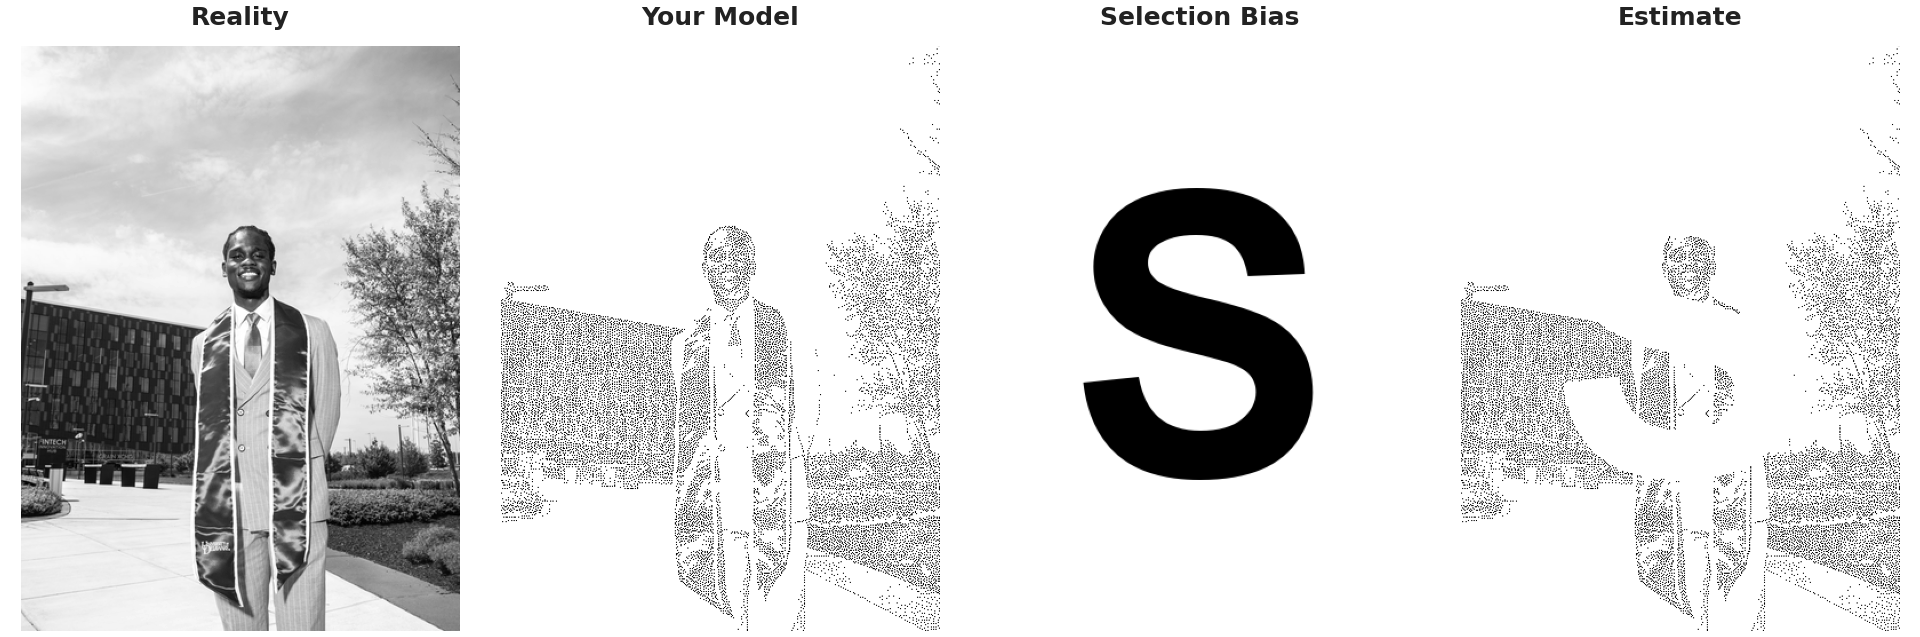
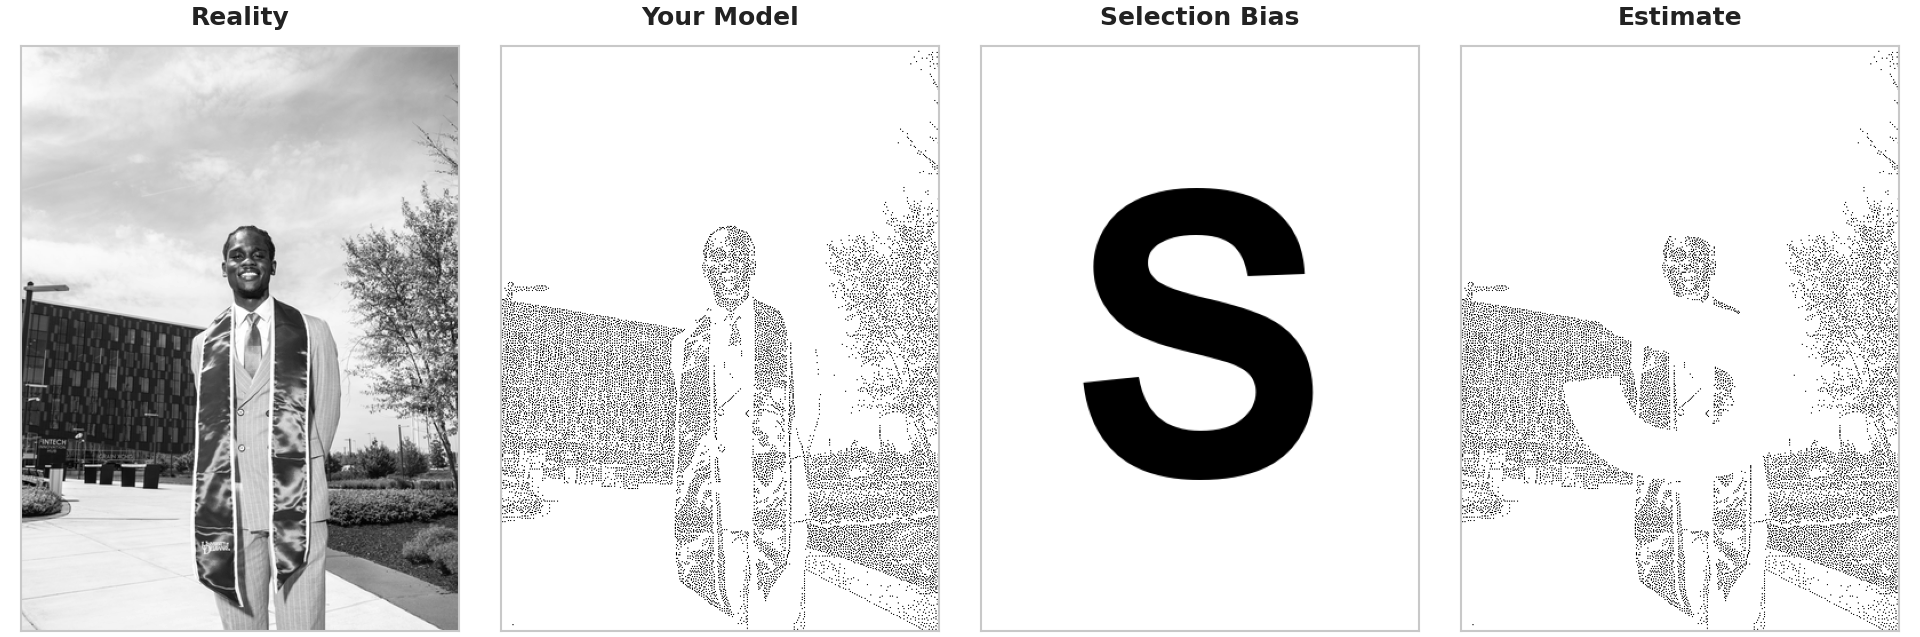
'final'

diff --git a/index.html b/index.html
@@ -160,9 +160,9 @@ ul.task-list li input[type="checkbox"] {
 <li><strong>Step 1</strong>: Prepare black and white image (provided) ✅</li>
 <li><strong>Step 2</strong>: Create stippled image using blue noise stippling (provided) ✅</li>
 <li><strong>Step 3</strong>: Create tonal analysis (optional refinement step, provided) ✅</li>
-<li><strong>Step 4</strong>: Create block letter “S” matching image dimensions (<strong>YOU WRITE THIS</strong>) ⚠</li>
-<li><strong>Step 5</strong>: Create masked image by applying the letter mask to the stippled image (<strong>YOU WRITE THIS</strong>) ⚠</li>
-<li><strong>Final</strong>: Assemble all components into the four-panel meme (<strong>YOU WRITE THIS</strong>) ⚠</li>
+<li><strong>Step 4</strong>: Create block letter “S” matching image dimensions ✅</li>
+<li><strong>Step 5</strong>: Create masked image by applying the letter mask to the stippled image ✅</li>
+<li><strong>Final</strong>: Assemble all components into the four-panel meme ✅</li>
 </ol>
 <p><strong>Note:</strong> Step 3 is optional but recommended. It helps you understand your image’s brightness distribution and refine the stippling parameters in Step 2 for better results.</p>
 </section>
@@ -182,7 +182,7 @@ ul.task-list li input[type="checkbox"] {
 <section id="function-files" class="level3">
 <h3 class="anchored" data-anchor-id="function-files">Function Files</h3>
 <p><strong>Steps you’ll use (provided):</strong> - <strong><code>step1_prepare_image.py</code></strong>: Image loading and preprocessing - <strong><code>step2_create_stipple.py</code></strong>: Blue noise stippling algorithm - <strong><code>step3_create_tonal.py</code></strong>: Tonal analysis (optional)</p>
-<p><strong>Steps you’ll write:</strong> - <strong><code>step4_create_block_letter.py</code></strong>: Block letter generation ⚠ - <strong><code>step5_create_masked.py</code></strong>: Mask application ⚠ - <strong><code>create_meme.py</code></strong>: Final assembly and visualization ⚠</p>
+<p><strong>Steps you’ll write:</strong> - <strong><code>step4_create_block_letter.py</code></strong>: Block letter generation ✅ - <strong><code>step5_create_masked.py</code></strong>: Mask application ✅ - <strong><code>create_meme.py</code></strong>: Final assembly and visualization ✅</p>
 <p><strong>Supporting functions (provided):</strong> - <strong><code>importance_map.py</code></strong>: Computes importance map for stippling - <strong><code>stippling_functions.py</code></strong>: Core stippling algorithm functions</p>
 </section>
 </section>
@@ -191,13 +191,13 @@ ul.task-list li input[type="checkbox"] {
 <p>Load an image, convert to grayscale, and resize to appropriate dimensions while maintaining aspect ratio.</p>
 <div id="cell-step1-prepare" class="cell" data-execution_count="1">
 <div class="cell-output cell-output-stdout">
-<pre><code>Image size: (375, 250) (no resizing needed)
-Final image shape: (375, 250) (should be 2D for grayscale)</code></pre>
+<pre><code>Resized image from (2048, 1537) to (512, 384) for processing
+Final image shape: (512, 384) (should be 2D for grayscale)</code></pre>
 </div>
 <div class="cell-output cell-output-display">
 <div id="step1-prepare" class="quarto-figure quarto-figure-center anchored">
 <figure class="figure">
-<p><img src="index_files/figure-html/step1-prepare-output-2.png" width="301" height="470" class="figure-img"></p>
+<p><img src="index_files/figure-html/step1-prepare-output-2.png" width="336" height="470" class="figure-img"></p>
 <figcaption>Original image prepared for processing</figcaption>
 </figure>
 </div>
@@ -211,15 +211,15 @@ Final image shape: (375, 250) (should be 2D for grayscale)</code></pre>
 <div class="cell-output cell-output-stdout">
 <pre><code>Importance map computed
 Generating blue noise stippling pattern...
-Generated 7500 stipple points
-Stipple pattern shape: (375, 250)
-Number of stippled points (0.0 values): 7500
-Number of background points (1.0 values): 86250</code></pre>
+Generated 15728 stipple points
+Stipple pattern shape: (512, 384)
+Number of stippled points (0.0 values): 15728
+Number of background points (1.0 values): 180880</code></pre>
 </div>
 <div class="cell-output cell-output-display">
 <div id="step2-stipple" class="quarto-figure quarto-figure-center anchored">
 <figure class="figure">
-<p><img src="index_files/figure-html/step2-stipple-output-2.png" width="301" height="470" class="figure-img"></p>
+<p><img src="index_files/figure-html/step2-stipple-output-2.png" width="336" height="470" class="figure-img"></p>
 <figcaption>Blue noise stippling pattern</figcaption>
 </figure>
 </div>
@@ -246,8 +246,8 @@ Number of background points (1.0 values): 86250</code></pre>
 <div id="cell-step3-tonal" class="cell" data-execution_count="3">
 <div class="cell-output cell-output-stdout">
 <pre><code>Created tonal analysis: grid 16×12
-Tonal statistics: mean=0.636, std=0.321
-Tone range: [0.072, 0.945]</code></pre>
+Tonal statistics: mean=0.668, std=0.237
+Tone range: [0.153, 0.953]</code></pre>
 </div>
 <div class="cell-output cell-output-display">
 <div id="step3-tonal" class="quarto-figure quarto-figure-center anchored">
@@ -260,15 +260,15 @@ Tone range: [0.072, 0.945]</code></pre>
 <div class="cell-output cell-output-stdout">
 <pre><code>
 📊 Tonal Statistics for Parameter Tuning:
-  Mean brightness: 0.636
-  Standard deviation: 0.321
-  Brightness range: [0.072, 0.945]
+  Mean brightness: 0.668
+  Standard deviation: 0.237
+  Brightness range: [0.153, 0.953]
 
 💡 Tuning Tips:
   - If mean &lt; 0.4: Image is dark, consider lowering extreme_threshold_low
   - If mean &gt; 0.6: Image is light, consider raising extreme_threshold_high
   - If std &gt; 0.2: High contrast, may need stronger extreme_downweight
-  - Use mid_tone_center around 0.64 to emphasize average tones</code></pre>
+  - Use mid_tone_center around 0.67 to emphasize average tones</code></pre>
 </div>
 </div>
 </section>
@@ -290,6 +290,16 @@ Tone range: [0.072, 0.945]</code></pre>
 </div>
 </div>
 <p><strong>Your code should go in a file called <code>step4_create_block_letter.py</code>.</strong> Once you’ve written it, you’ll use it like this:</p>
+<div id="cell-step4-block-letter" class="cell" data-execution_count="4">
+<div class="cell-output cell-output-display">
+<div id="step4-block-letter" class="quarto-figure quarto-figure-center anchored">
+<figure class="figure">
+<p><img src="index_files/figure-html/step4-block-letter-output-1.png" width="421" height="470" class="figure-img"></p>
+<figcaption>Block letter S representing selection bias</figcaption>
+</figure>
+</div>
+</div>
+</div>
 </section>
 <section id="step-5-create-masked-image-your-task" class="level2">
 <h2 class="anchored" data-anchor-id="step-5-create-masked-image-your-task">Step 5: Create Masked Image ⚠ <strong>YOUR TASK</strong></h2>
@@ -309,6 +319,16 @@ Tone range: [0.072, 0.945]</code></pre>
 </div>
 </div>
 <p><strong>Your code should go in a file called <code>step5_create_masked.py</code>.</strong> Once you’ve written it, you’ll use it like this:</p>
+<div id="cell-step5-masked" class="cell" data-execution_count="5">
+<div class="cell-output cell-output-display">
+<div id="step5-masked" class="quarto-figure quarto-figure-center anchored">
+<figure class="figure">
+<p><img src="index_files/figure-html/step5-masked-output-1.png" width="464" height="470" class="figure-img"></p>
+<figcaption>Masked stippled image showing selection bias effect</figcaption>
+</figure>
+</div>
+</div>
+</div>
 </section>
 <section id="create-the-final-statistics-meme-your-task" class="level2">
 <h2 class="anchored" data-anchor-id="create-the-final-statistics-meme-your-task">Create the Final Statistics Meme ⚠ <strong>YOUR TASK</strong></h2>
@@ -328,6 +348,7 @@ Tone range: [0.072, 0.945]</code></pre>
 </div>
 </div>
 <p><strong>Your code should go in a file called <code>create_meme.py</code>.</strong> Once you’ve written it, you’ll use it like this:</p>
+<p>Meme Explanation: This meme demonstrates selection bias by showing how systematic missing data patterns distort our understanding of reality. The original image (Reality) represents the true population, while the stippled version (Your Model) shows our data collection. When selection bias removes data points in a systematic “S” pattern, the resulting estimate becomes biased and no longer represents the true population, just as missing data in real-world studies can lead to incorrect conclusions.</p>
 </section>
 <section id="your-final-submission" class="level2">
 <h2 class="anchored" data-anchor-id="your-final-submission">Your Final Submission</h2>
@@ -338,9 +359,9 @@ Tone range: [0.072, 0.945]</code></pre>
 <li>✅ <strong>Use Step 1</strong> to prepare your own image (with your own image file)</li>
 <li>✅ <strong>Use Step 2</strong> to generate a stippled image using blue noise stippling</li>
 <li>⭐ <strong>Optionally use Step 3</strong> to analyze tonal distribution and refine Step 2 parameters (recommended)</li>
-<li>⚠ <strong>Write Step 4</strong>: Create <code>step4_create_block_letter.py</code> to generate the block letter “S”</li>
-<li>⚠ <strong>Write Step 5</strong>: Create <code>step5_create_masked.py</code> to apply the mask</li>
-<li>⚠ <strong>Write Final Step</strong>: Create <code>create_meme.py</code> to assemble the four-panel meme</li>
+<li>✅ <strong>Write Step 4</strong>: <code>step4_create_block_letter.py</code> generates the block letter “S”</li>
+<li>✅ <strong>Write Step 5</strong>: <code>step5_create_masked.py</code> applies the mask</li>
+<li>✅ <strong>Write Final Step</strong>: <code>create_meme.py</code> assembles the four-panel meme</li>
 <li>✅ <strong>Create a complete <code>index.qmd</code></strong> that uses all functions (with code hidden)</li>
 <li>✅ <strong>Generate your final meme</strong> using your own image</li>
 <li>✅ <strong>Include a brief explanation</strong> (1-3 sentences) of how the meme demonstrates selection bias</li>
@@ -350,15 +371,20 @@ Tone range: [0.072, 0.945]</code></pre>
 <h3 class="anchored" data-anchor-id="final-output-requirements">Final Output Requirements</h3>
 <p><strong>Important:</strong> All code should be hidden (<code>echo: false</code>) in your final <code>index.qmd</code> output. The rendered HTML should show only: - The final meme image - A brief explanation (1-3 sentences) of how it demonstrates selection bias</p>
 </section>
-<section id="template-for-final-section" class="level3">
-<h3 class="anchored" data-anchor-id="template-for-final-section">Template for Final Section</h3>
-<p>Here’s a template for your final section:</p>
-</section>
-<section id="example-explanation" class="level3">
-<h3 class="anchored" data-anchor-id="example-explanation">Example Explanation</h3>
-<p>Your explanation should be 1-3 sentences. Here’s an example:</p>
+<section id="final-meme" class="level3">
+<h3 class="anchored" data-anchor-id="final-meme">Final meme</h3>
+<div id="cell-final-meme" class="cell" data-execution_count="7">
+<div class="cell-output cell-output-display">
+<div id="final-meme" class="quarto-figure quarto-figure-center anchored">
+<figure class="figure">
+<p><img src="index_files/figure-html/final-meme-output-1.png" width="1233" height="422" class="figure-img"></p>
+<figcaption>Statistics meme demonstrating selection bias</figcaption>
+</figure>
+</div>
+</div>
+</div>
 <blockquote class="blockquote">
-<p>This meme demonstrates selection bias by showing how systematic missing data patterns distort our understanding of reality. The original image (Reality) represents the true population, while the stippled version (Your Model) shows our data collection. When selection bias removes data points in a systematic “S” pattern, the resulting estimate becomes biased and no longer represents the true population, just as missing data in real-world studies can lead to incorrect conclusions.</p>
+<p>This meme shows selection bias by comparing the full image (Reality) to a stippled sample (Your Model), then marking a systematic missing-data pattern as an “S” (Selection Bias). The last panel (Estimate) keeps stipples only outside that pattern, so the picture we recover is distorted in the same way estimates are biased when data are missing non-randomly.</p>
 </blockquote>
 </section>
 </section>
